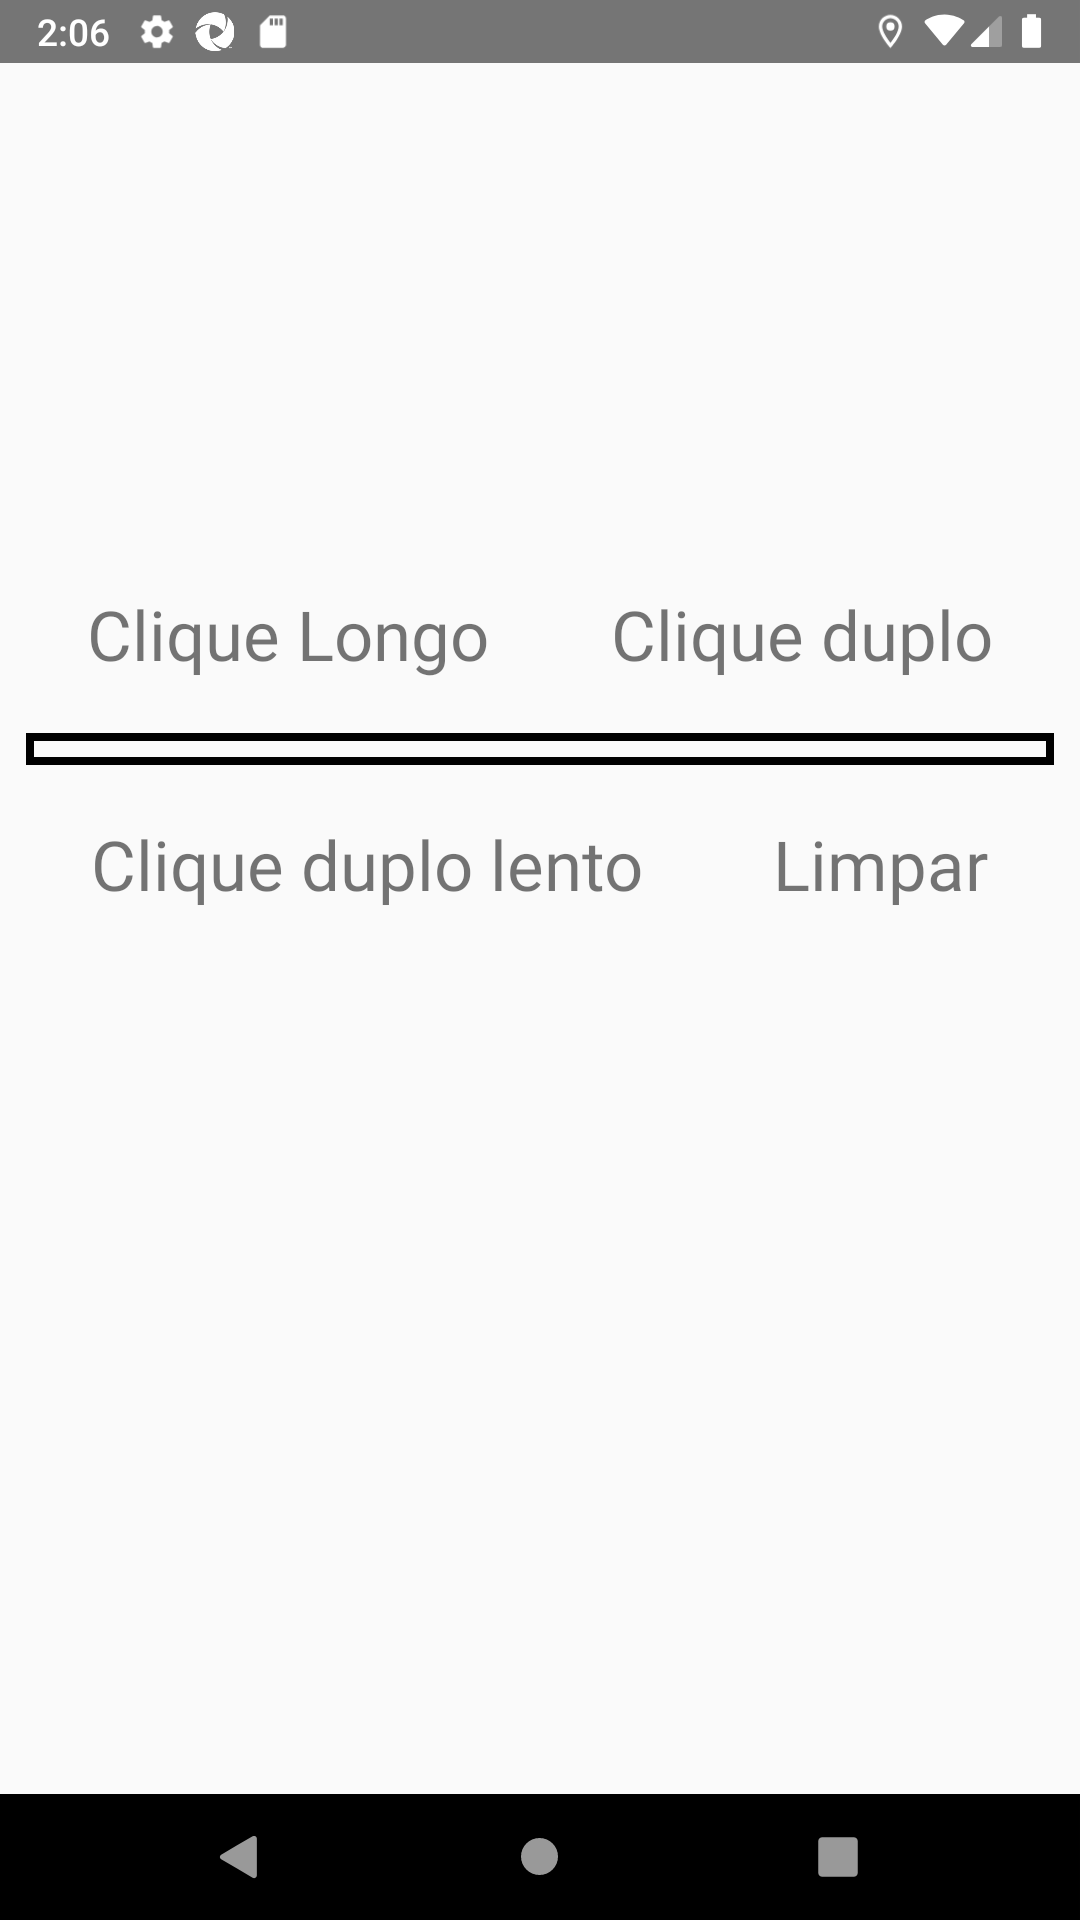
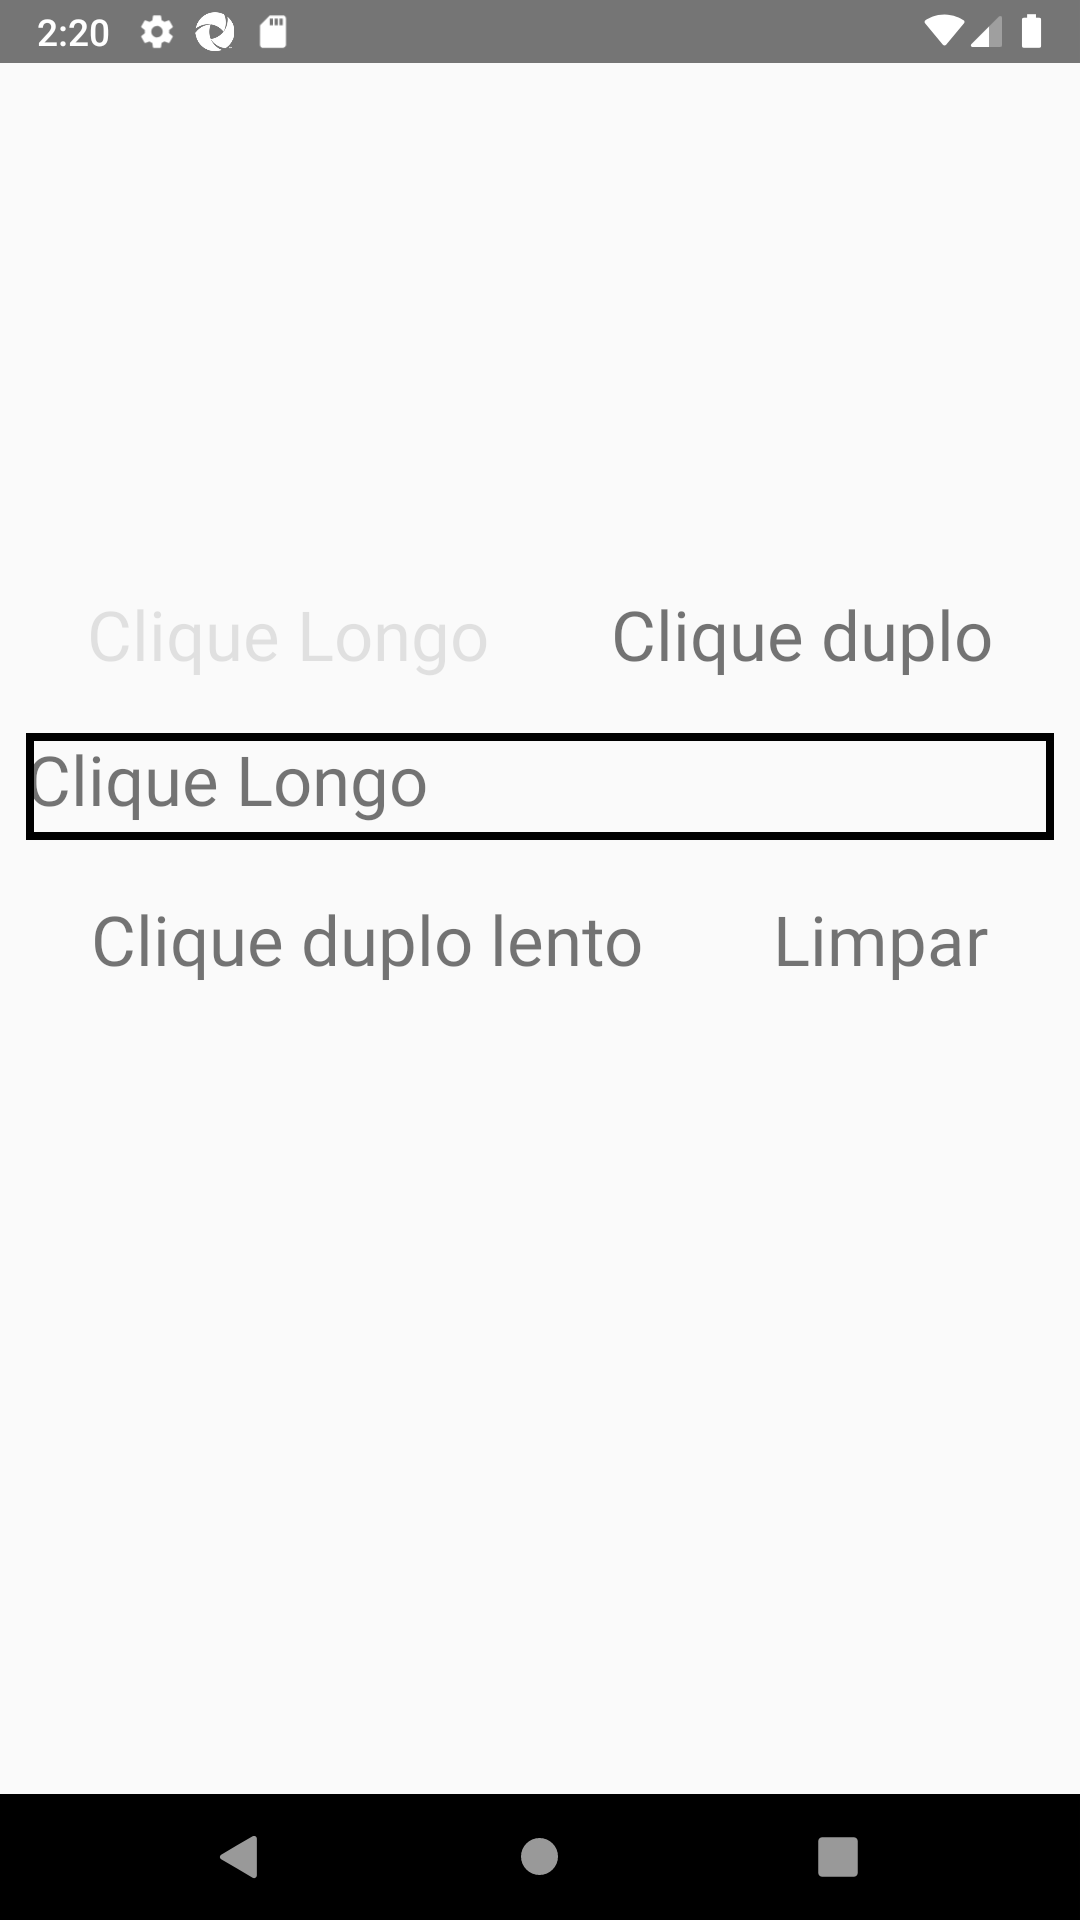
Metodo para clique longo

diff --git a/src/main/java/br/ce/appium/page/CliquesPage.java b/src/main/java/br/ce/appium/page/CliquesPage.java
@@ -13,13 +13,15 @@ import com.google.j2objc.annotations.AutoreleasePool;
 
 import io.appium.java_client.MobileElement;
 import io.appium.java_client.TouchAction;
+import io.appium.java_client.android.AndroidTouchAction;
 import io.appium.java_client.touch.LongPressOptions;
+import io.appium.java_client.touch.offset.ElementOption;
 import io.appium.java_client.touch.offset.PointOption;
 
 public class CliquesPage extends BasePage {
 
 	
-	public void cliqueLongo() {
+	public void cliqueLongo() throws InterruptedException {
 		//new TouchAction(getDriver()).
 		//.longPress(getDriver().findElement(By.xpath("//*[@text='Clique Longo']"))).perform();
 		
@@ -27,15 +29,20 @@ public class CliquesPage extends BasePage {
 		//.longPress(getDriver().findElement(By.xpath("//*[@text='Clique Longo']"))).perform();
 		
 		MobileElement element = getDriver().findElement(By.xpath("//*[@text='Clique Longo']"));
-		TouchActions action = new TouchActions(DriverFactory.getDriver());
-		action.longPress(element);
-		action.perform();
+		//TouchActions action = new TouchActions(DriverFactory.getDriver());
+		//	action.longPress(element);
+		//	action.perform();
 
+		AndroidTouchAction touch = new AndroidTouchAction (getDriver());
+		touch.longPress(LongPressOptions.longPressOptions()
+		                .withElement (ElementOption.element (element)))
+		              .perform ();
 
+		System.out.println("LongPressed Tapped");
 	}
 	
 	public String obterTexto() {
-		return getDriver().findElement(By.xpath("//android.widget.TextView)[3]")).getText();
+		return getDriver().findElement(By.xpath("(//android.widget.TextView)[3]")).getText();
 
 	}
 }

diff --git a/src/main/java/br/ce/appium/test/CliquesTeste.java b/src/main/java/br/ce/appium/test/CliquesTeste.java
@@ -15,7 +15,7 @@ public class CliquesTeste extends BaseTest {
 	private CliquesPage clique = new CliquesPage();
 	
 	@Test
-	public void deveRealizarCliqueLongo() {
+	public void deveRealizarCliqueLongo() throws InterruptedException {
 		//acessar menu
 		menu.acessarCliques();
 		
